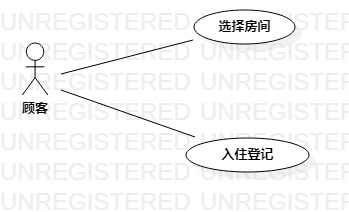
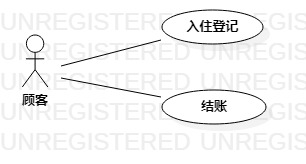
实验二用例修改

diff --git a/students/1707080412124/lab2.md b/students/1707080412124/lab2.md
@@ -14,8 +14,8 @@
 ## 3、实验步骤
 
 1. 根据选题确定2个功能（用例）
-- 选择房间
-- 录入顾客信息
+- 入住登记
+- 结账
 2. 确定系统参与者
 - 顾客
 3. 建立用例和参与者的联系
@@ -25,32 +25,39 @@
 
 ![用例图](./Lab2_UseCaseDiagram.jpg)
 
-图1：酒店自助开房系统的用例图
+图1：酒店自助开房结账系统的用例图
 
-## 表1：选择房间用例规约
+## 表1：入住登记用例规约
 
 用例编号  | UC01 | 备注  
 -|:-|-  
-用例名称  | 选择房间 |   
-前置条件  |      | *可选*   
-后置条件  | 顾客进入入住登记页面 | *可选*   
-基本流程  | 1.顾客点击选择房间按钮； |*用例执行成功的步骤*    
-~| 2.系统显示房型选择页面； |   
-~| 3.顾客选择房型； |   
-~| 4.系统查询房型，显示选择房间页面； |   
-~| 5.顾客选择房间号； | 
-~| 6.系统修改被选择房间的状态为『已住』； |  
-~| 7.系统显示顾客信息录入页面。 | 
-扩展流程  | 4.1系统检测此类房型已住满，提示『该房型已满，请重新选择』，并返回选择房间页面 |*用例执行失败*    
+用例名称  | 入住登记 |   
+前置条件  |  | *可选*   
+后置条件  | 系统返回主界面 | *可选*   
+基本流程  | 1.顾客点击入住登记按钮； |*用例执行成功的步骤*    
+~| 2.系统显示房间选择页面（只显示可入住房间）；|   
+~| 3.顾客选择房间或选择退回主界面；|   
+~| 4.系统修改被选择房间的状态为『已住』；|  
+~| 5.系统显示入住登记页面。|
+~| 6.顾客登记基本信息；|   
+~| 7.系统保存顾客信息，完成入住登记；|   
+~| 8.系统登记成功，返回系统主界面；|  
+扩展流程  | 7.1系统保存信息失败，提示『登记信息失败，请重新登记信息』，并返回入住登记页面 |*用例执行失败*
 
-## 表2：入住登记用例规约
+## 表2：结账用例规约
 
 用例编号  | UC02 | 备注  
 -|:-|-  
-用例名称  | 入住登记 |   
-前置条件  | 顾客选择完房间 | *可选*   
+用例名称  | 结账 |   
+前置条件  |      | *可选*   
 后置条件  | 系统返回主界面 | *可选*   
-基本流程  | 1.顾客登记基本信息；|*用例执行成功的步骤*    
-~| 2.系统完成入住登记；|   
-~| 3.系统登记成功，返回系统主界面；|  
-扩展流程  | 2.1系统入住登记失败，提示『登记信息失败，请重新登记信息』，并返回入住登记页面 |*用例执行失败*   
+基本流程  | 1.顾客点击结账按钮，并输入身份证号； |*用例执行成功的步骤*    
+~| 2.系统显示费用明细； |   
+~| 3.顾客确认无误后，点击确认按钮； |   
+~| 4.系统显示付费二维码； |   
+~| 5.顾客扫描二维码完成支付； | 
+~| 6.系统检测到顾客支付信息，确认支付成功，保存收款信息； |  
+~| 7.系统显示交易成功界面。 | 
+扩展流程  | 5.1系统1分钟内仍未检测到顾客支付信息，提示『请确认支付』 |*用例执行失败*    
+
+   
